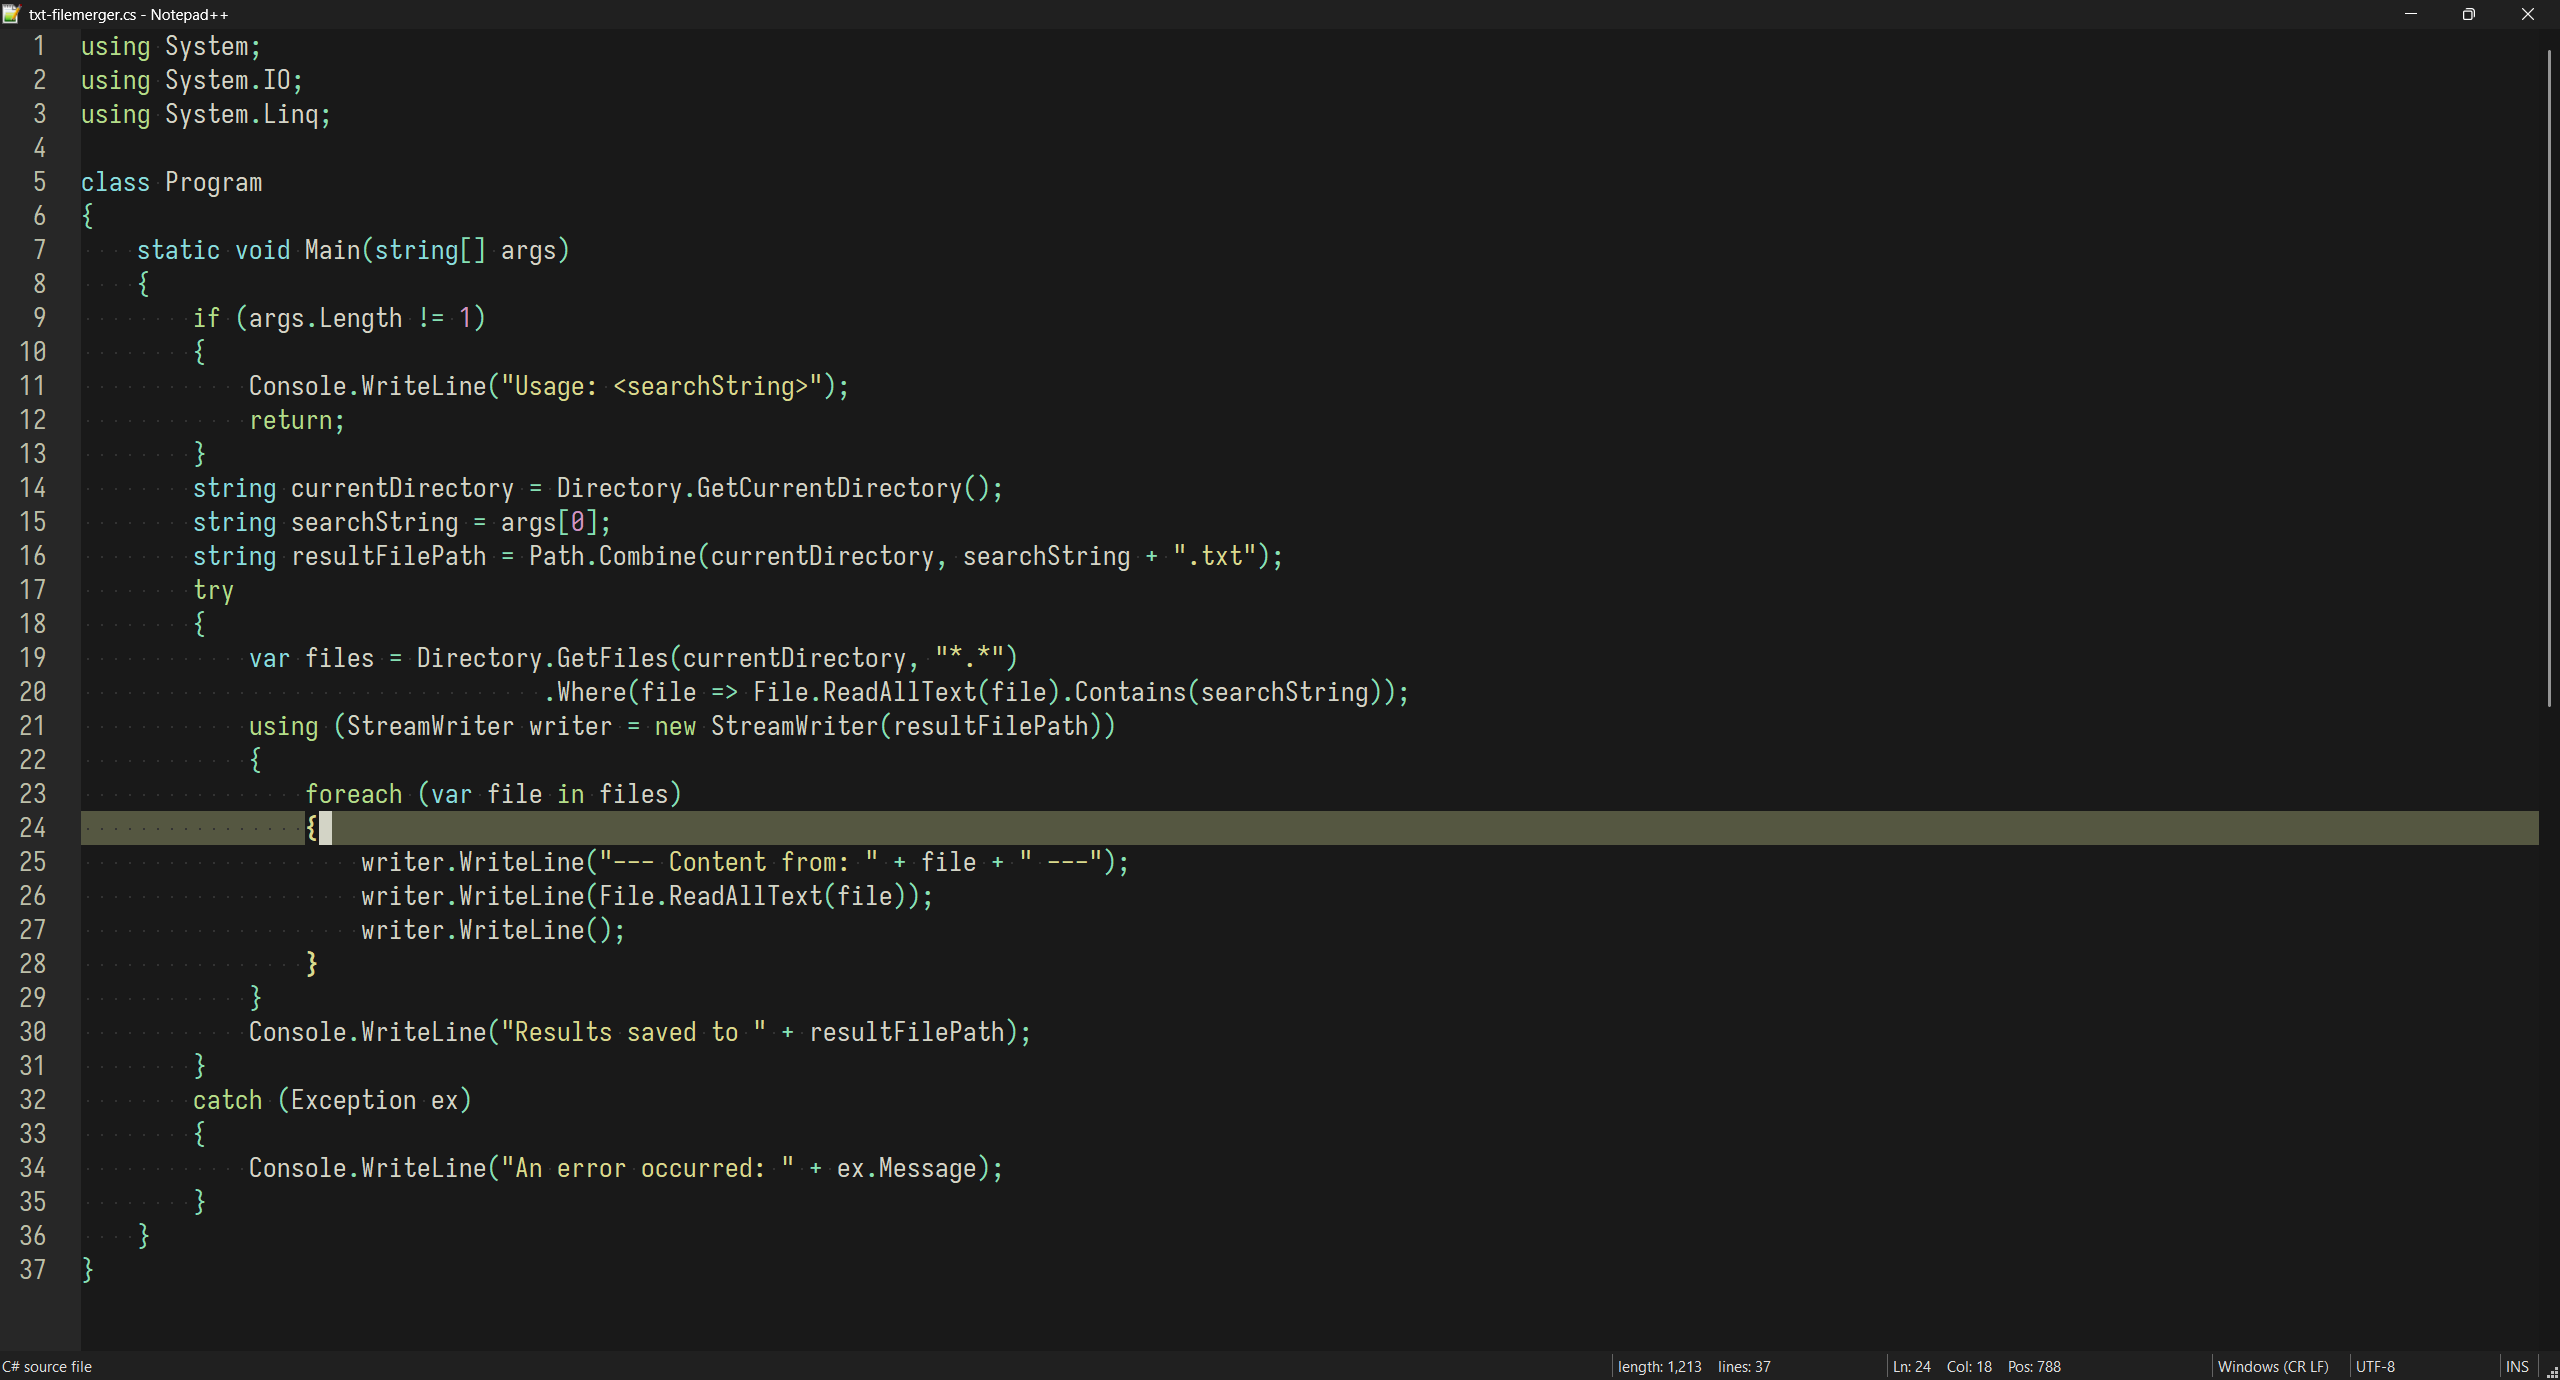
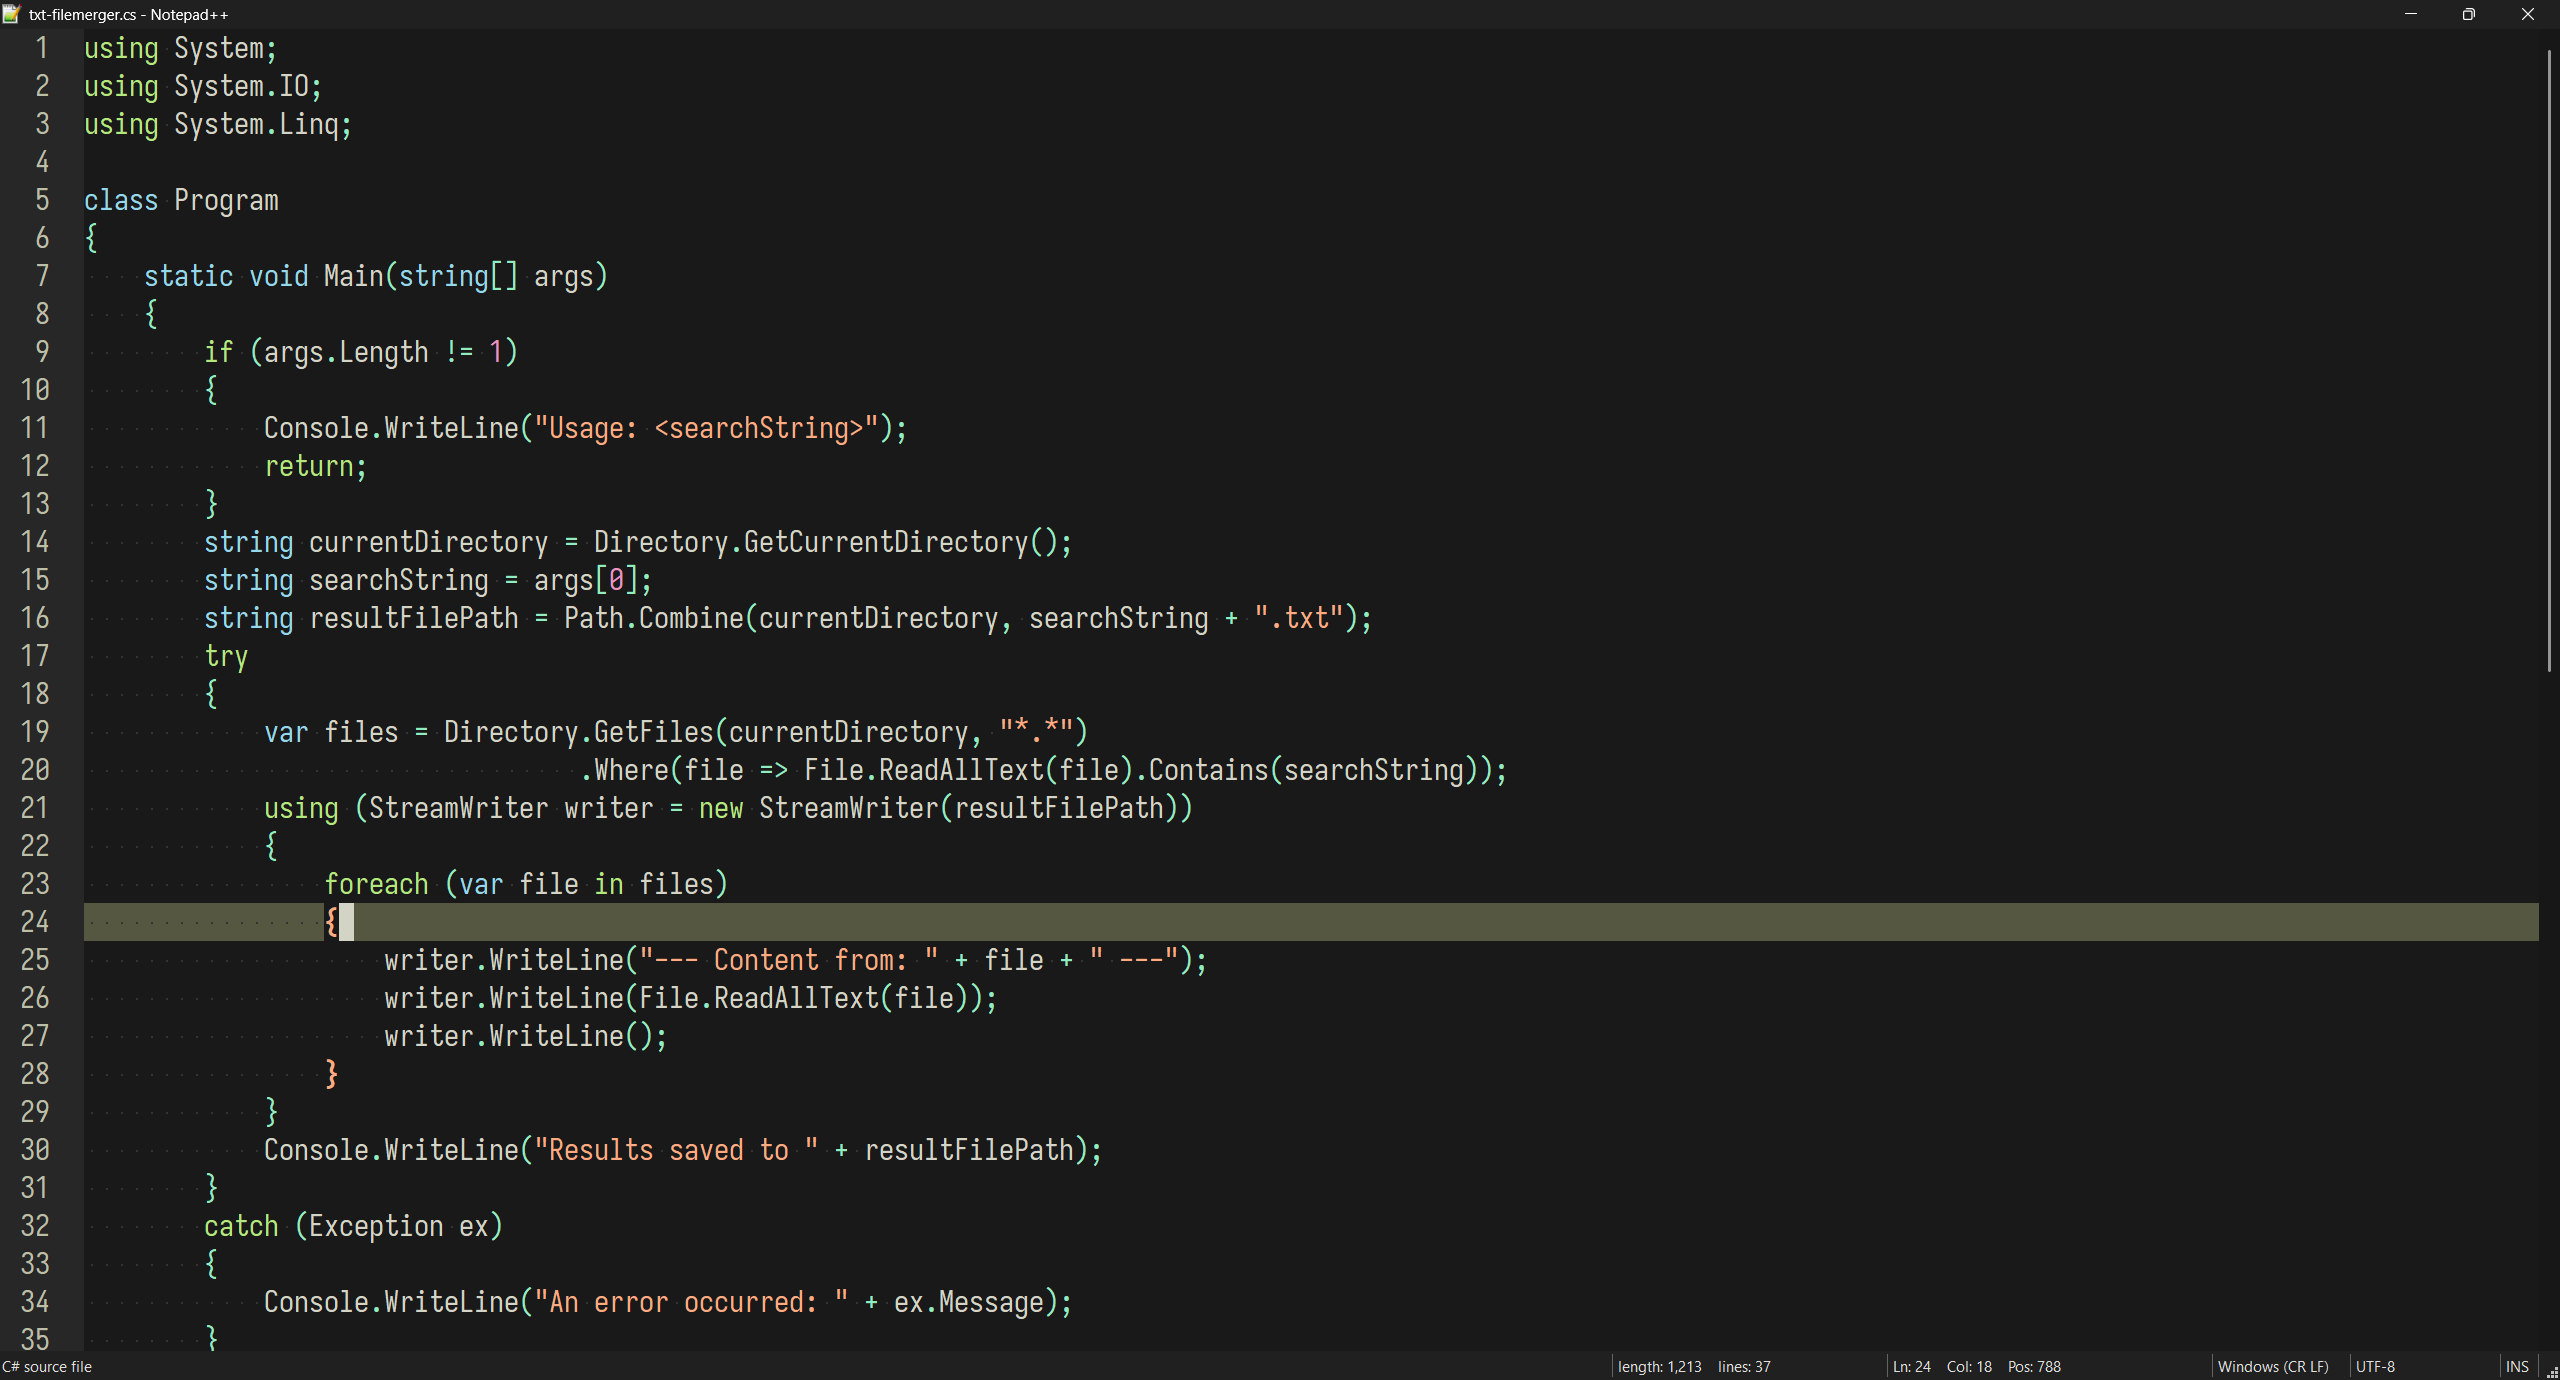
updating synthetic theme

diff --git a/scheme_files/other/synthetic.html b/scheme_files/other/synthetic.html
@@ -83,35 +83,35 @@ this template is meant as a reference sheet for your color theme
 			<tr>
 				<td>syntax 1<br><a>UI: change history modified, alert, error
                 <br>SYNTAX: macro, methods, functions, symbols (question mark, shebang, etc.)<br>TERMINAL: red</a></td>
-				<td>#dd889d</td>
-				<td style="background-color:#dd889d;"></td>
+				<td>#f98585</td>
+				<td style="background-color:#f98585;"></td>
 			</tr>
 			<tr>
 				<td>syntax 2<br><a>UI: change history revert origin, change history revert modified, warnings
                 <br>SYNTAX: strings, char, regex, verbatim<br>TERMINAL: yellow</a></td>
-				<td>#d9d98c</td>
-				<td style="background-color:#d9d98c;"></td>
+				<td>#ffaa80</td>
+				<td style="background-color:#ffaa80;"></td>
 			</tr>
 			<tr>
 				<td>syntax 3<br><a>SYNTAX: opertors, variables, identifiers<br>TERMINAL: cyan</a></td>
-				<td>#85e0b3</td>
-				<td style="background-color:#85e0b3;"></td>
+				<td>#91edbf</td>
+				<td style="background-color:#91edbf;"></td>
 			</tr>
 			<tr>
 				<td>syntax 4<br><a>UI: change history saved
                 <br>SYNTAX: conditionals, keywords, tags, commands, instructions<br>TERMINAL: green</a></td>
-				<td>#b3dd88</td>
-				<td style="background-color:#b3dd88;"></td>
+				<td>#b3e87d</td>
+				<td style="background-color:#b3e87d;"></td>
 			</tr>
 			<tr>
 				<td>syntax 5<br><a>SYNTAX: keys, types, class, groups, sections, preprocessor<br>TERMINAL: blue</a></td>
-				<td>#88dddd</td>
-				<td style="background-color:#88dddd;"></td>
+				<td>#93d8eb</td>
+				<td style="background-color:#93d8eb;"></td>
 			</tr>
 			<tr>
 				<td>syntax 6<br><a>SYNTAX: qualifier, numbers, booleans, attributes<br>TERMINAL: magenta (purple)</a></td>
-				<td>#d194c3</td>
-				<td style="background-color:#d194c3;"></td>
+				<td>#ed92c1</td>
+				<td style="background-color:#ed92c1;"></td>
 			</tr>
 		</table>
 		<br>

diff --git a/doc/galery.md b/doc/galery.md
@@ -132,7 +132,8 @@ This is my solution for a better (in my eyes) implementation of the solar punk g
 ![](/assets/pictures/text-editor/steampunk.png)<br><br>
 ![](/assets/pictures/terminal/steampunk.png)<br><br>
 **Synthetic**<br>
-This theme should mimic the look of an old inverted digital display. Combined with some retro colors (when I played with the colors I had the 80's in mind) you get a "synthetic" look.<br><br>
+This theme should mimic the look of an old inverted digital display.<br>
+Combined with some retro colors (I had the 80's in mind) you get a "synthetic" look.<br><br>
 ![](/assets/pictures/text-editor/synthetic.png)<br><br>
 ![](/assets/pictures/terminal/synthetic.png)<br><br>
 **Vintage**<br>
